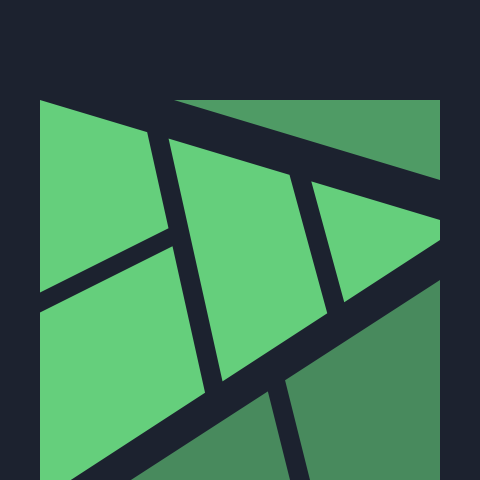
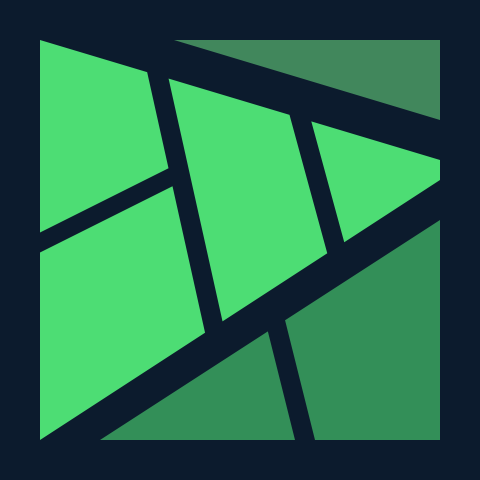
Better colors.

diff --git a/wheretostartreading/static/style.css b/wheretostartreading/static/style.css
@@ -13,7 +13,7 @@ body {
 }
 
 header {
-  background-color: #1c222e;
+  background-color: #0C1B2D;
   border-bottom: 1px solid #000;
 }
 
@@ -32,20 +32,16 @@ header {
   margin-bottom: -20px;
 }
 
-header p {
-  /*padding-left: 50px;*/
-}
-
 header p,
 header p a {
   font-weight: normal;
   text-decoration: none;
   font-size: 16px;
-  color: #8c919d;
+  color: #8B96A5;
 }
 
 header p a {
-  color: #65cf7c;
+  color: #4DDD74;
 }
 
 h1, h2, h3 {
@@ -69,7 +65,7 @@ h1 a:hover {
 }
 
 h2 {
-  color: #7e8890;
+  color: #6B757C;
   font-size: 28px;
   margin-top: 1em;
   margin-bottom: 0.25em;
@@ -81,7 +77,7 @@ h2.subtitle {
 }
 
 a, a:link {
-  color: #1b8ff8;
+  color: #0090FF;
   text-decoration: none;
   border: none;
   }
@@ -95,8 +91,8 @@ li {
 
 .disqus_wrapper {
   padding: 30px;
-  background-color: #f2f2f2;
-  border-top: 1px solid #eee;
+  background-color: #EFF2F4;
+  border-top: 2px solid #E5E8EA;
 }
 
 #disqus_thread, .disqus_wrapper h2 {
